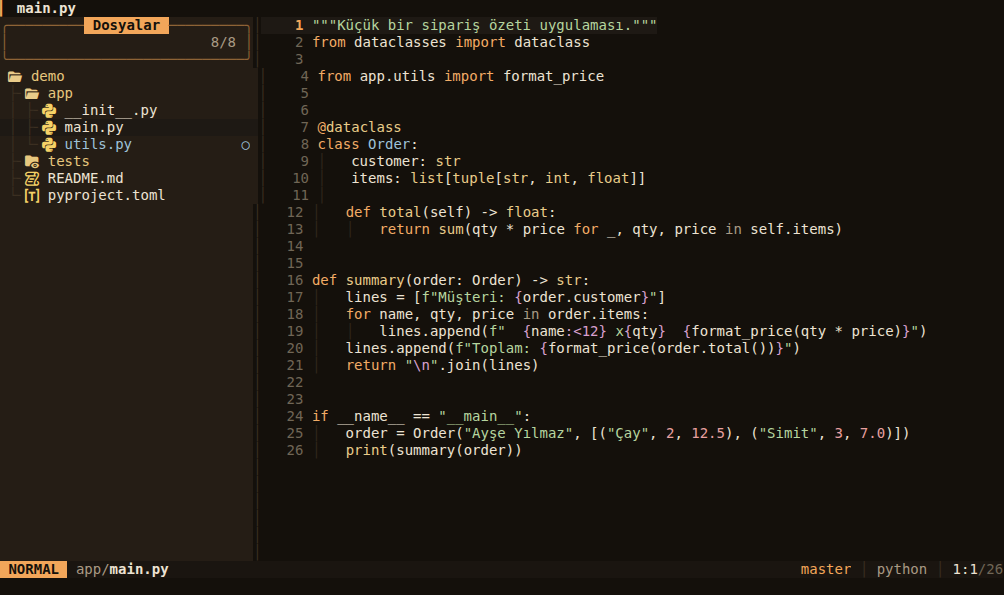
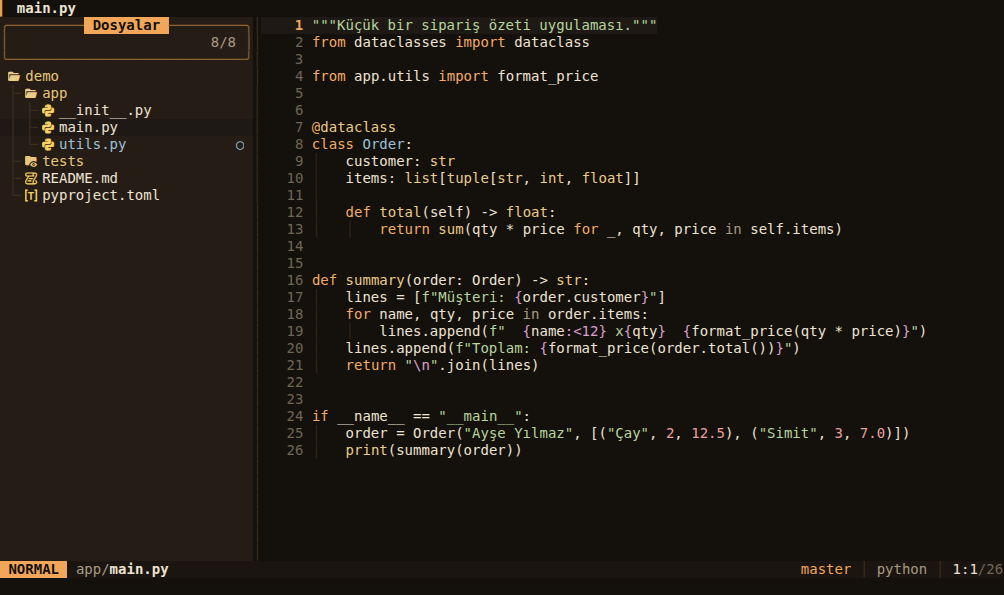
Ekran görüntüleri: glifleri terminal hücre ızgarasına sabitle
Görüntülerde gezgin ile editör arasındaki ayırıcı "│" ve kod satırları,
Nerd Font ikonu içeren satırlarda sağa kayıyordu. Neden: HTML çizici metni
stil dizileri halinde yerleştiriyordu; yedek fonttan gelen ikonun genişliği
(1em = 14px) hücre genişliğinden (8.43px) büyük olduğu için satırın geri
kalanı kayıyordu. Gerçek terminal ızgarası kaymaz.

- Latin dışı her karakter sabit genişlikli kutuya konur (geniş karakter 2 hücre)
- Ardından boşluk gelen ikon, kitty/WezTerm/Ghostty gibi 2 hücreye yayılır;
  ölçek transform ile küçültülür (yerleşimi etkilemez)
- Sahne 16'da komut satırında kalan ":redraw!" yankısı temizlendi
- Tüm ekran görüntüleri yeniden üretildi

Claude-Session: https://claude.ai/code/session_01RAuZBnqs5MYhxJ9rYGkRZe

diff --git a/tests/visual/ansi2html.py b/tests/visual/ansi2html.py
@@ -6,6 +6,7 @@ Kullanım: ansi2html.py girdi.ansi çıktı.html "Başlık"
 import html
 import re
 import sys
+import unicodedata
 
 BASE16 = [
     "#000000", "#cd0000", "#00cd00", "#cdcd00", "#0000ee", "#cd00cd", "#00cdcd", "#e5e5e5",
@@ -25,6 +26,54 @@ def xterm256(n: int) -> str:
 
 
 SGR = re.compile(r"\x1b\[([0-9;:]*)m")
+
+
+def is_icon(ch: str) -> bool:
+    """Nerd Font ikonları özel kullanım alanlarındadır (PUA)."""
+    o = ord(ch)
+    return 0xE000 <= o <= 0xF8FF or o >= 0xF0000
+
+
+def render_cells(cells: list) -> str:
+    """(css, karakter) hücrelerini terminal ızgarasına sabitlenmiş HTML'e çevirir.
+
+    Terminal her karakteri bir (geniş karakterde iki) hücreye yerleştirir;
+    glifin fonttaki genişliği sonraki hücreleri kaydırmaz. Tarayıcı ise yedek
+    fonttan gelen glifin (Nerd Font ikonu, kutu çizimi) kendi genişliğini
+    kullanır ve satırın geri kalanını kaydırır. Bu yüzden Latin dışı her
+    karakter sabit genişlikli bir kutuya konur.
+
+    İkonlar: Symbols Nerd Font Mono glifleri 1em genişliğindedir (hücreden
+    geniş). kitty/WezTerm/Ghostty ikonun ardından boşluk varsa ikonu iki hücreye
+    yayar; yoksa hücreye sığdırır. Burada da aynısı yapılır.
+    """
+    out, cur_css, buf = [], None, []
+
+    def flush():
+        if buf:
+            out.append(f'<span style="{cur_css}">{"".join(buf)}</span>')
+            buf.clear()
+
+    i = 0
+    while i < len(cells):
+        css, ch = cells[i]
+        if css != cur_css:
+            flush()
+            cur_css = css
+        if ord(ch) < 0x250:
+            buf.append(html.escape(ch))
+        elif is_icon(ch):
+            if i + 1 < len(cells) and cells[i + 1][1] == " ":
+                buf.append(f'<b class="c2 ic">{html.escape(ch)}</b>')
+                i += 1  # ardındaki boşluk hücresi ikona ait
+            else:
+                buf.append(f'<b class="c1 ic1">{html.escape(ch)}</b>')
+        else:
+            w = 2 if unicodedata.east_asian_width(ch) in ("W", "F") else 1
+            buf.append(f'<b class="c{w}">{html.escape(ch)}</b>')
+        i += 1
+    flush()
+    return "".join(out)
 
 
 def convert(text: str, default_fg: str, default_bg: str) -> str:
@@ -93,7 +142,7 @@ def convert(text: str, default_fg: str, default_bg: str) -> str:
             pos = m.end()
         if pos < len(line):
             spans.append((dict(state), line[pos:]))
-        parts = []
+        line_cells = []
         for st, txt in spans:
             fg = st["fg"] or default_fg
             bg = st["bg"] or default_bg
@@ -113,8 +162,9 @@ def convert(text: str, default_fg: str, default_bg: str) -> str:
                 deco.append("line-through")
             if deco:
                 css.append("text-decoration:" + " ".join(deco))
-            parts.append(f'<span style="{";".join(css)}">{html.escape(txt)}</span>')
-        out_lines.append("<div>" + "".join(parts) + "</div>")
+            css_s = ";".join(css)
+            line_cells.extend((css_s, ch) for ch in txt)
+        out_lines.append("<div>" + render_cells(line_cells) + "</div>")
     # white-space:pre içinde div'ler arası "\n" fazladan satır üretir
     return "".join(out_lines)
 
@@ -136,6 +186,11 @@ html, body {{ margin:0; background:{default_bg}; }}
   font-variant-ligatures:none; }}
 #term div {{ height:17px; }}
 #term span {{ display:inline-block; height:17px; vertical-align:top; }}
+#term b {{ display:inline-block; font-weight:inherit; height:17px; vertical-align:top; overflow:visible; }}
+#term b.c1 {{ width:1ch; }}
+#term b.c2 {{ width:2ch; }}
+#term b.ic {{ text-align:left; transform:scale(.88); transform-origin:left center; }}
+#term b.ic1 {{ text-align:left; transform:scale(.6); transform-origin:left center; }}
 </style></head><body><div id="term">{body}</div></body></html>"""
     with open(dst, "w", encoding="utf-8") as f:
         f.write(page)
